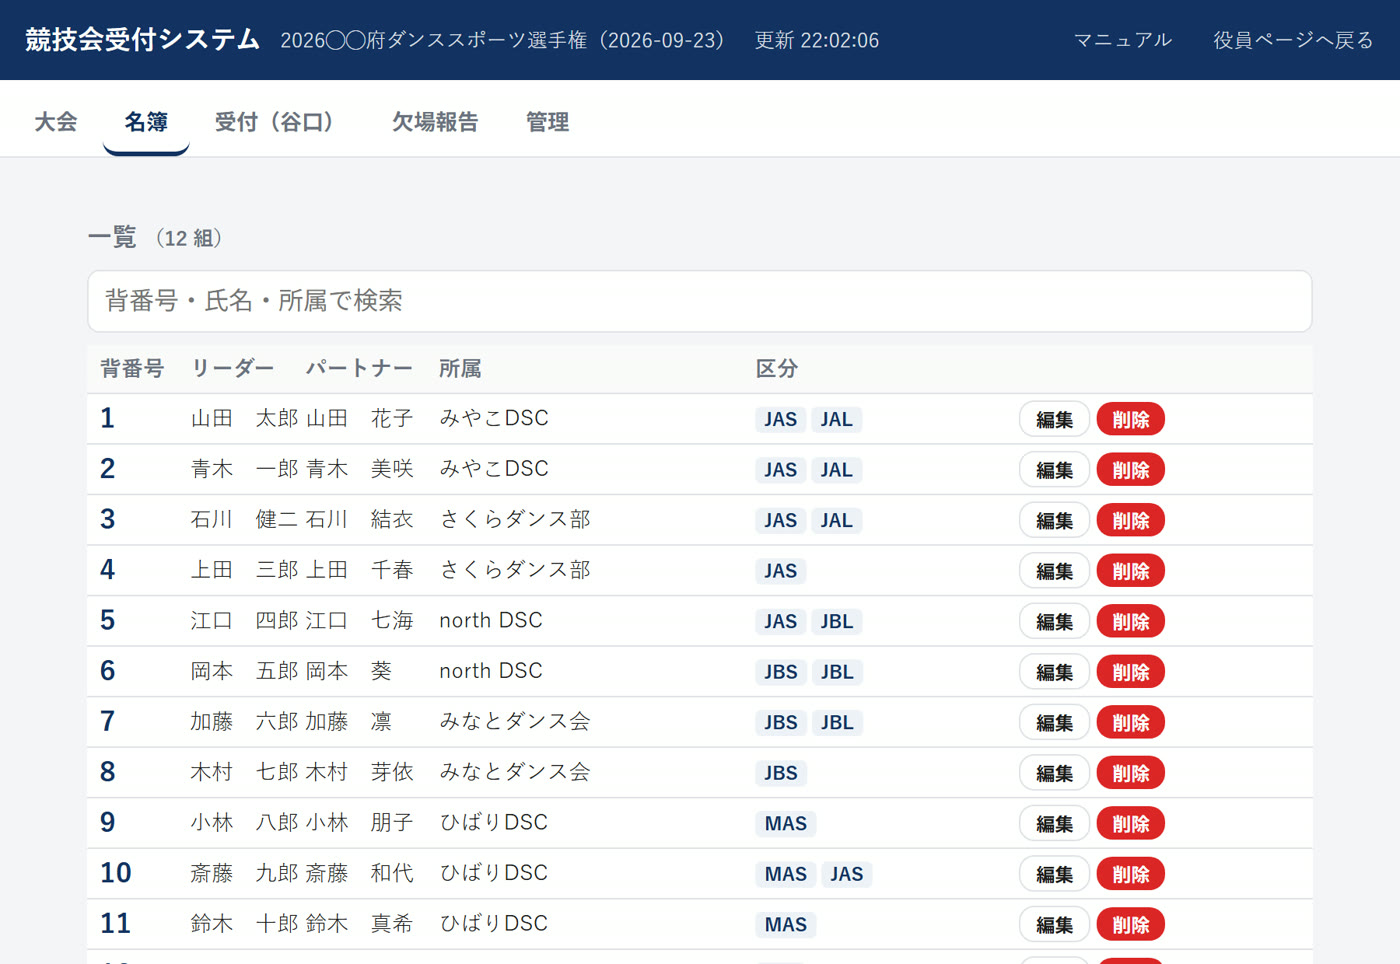
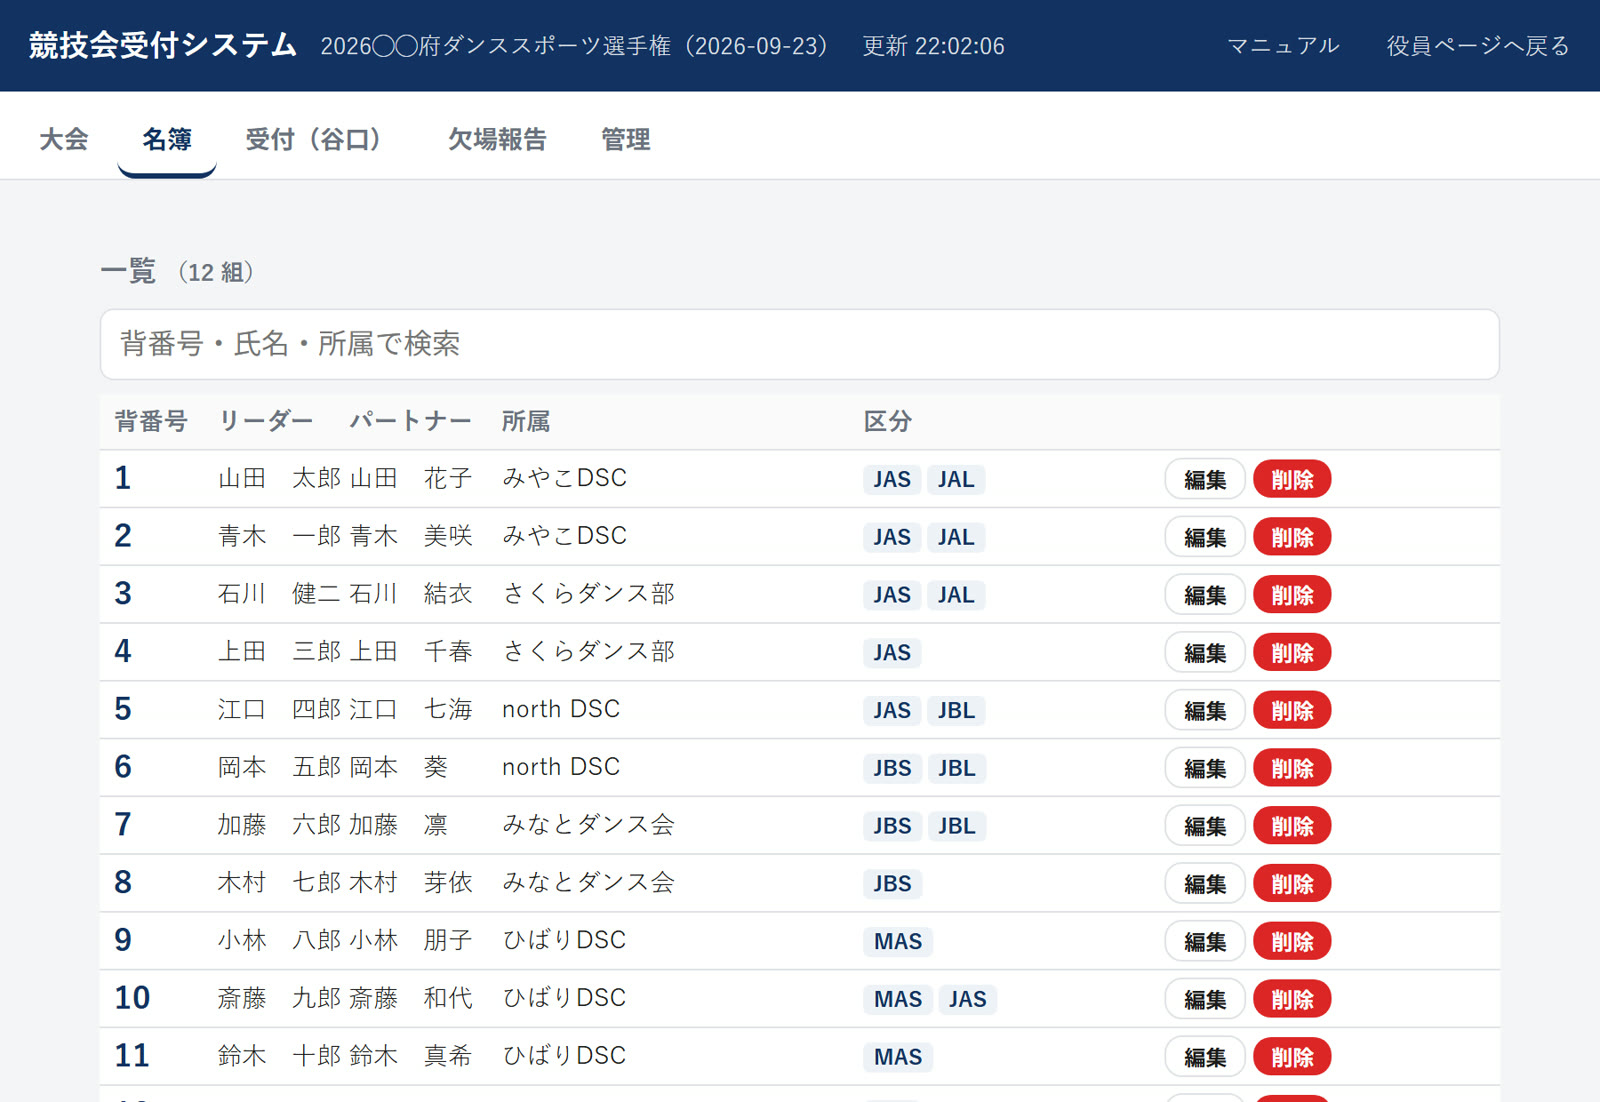
docs(uketsuke): マニュアルの画面写真を本文より広く出す
画面全体を撮ると、中の操作部分が小さくて読みにくかった。写真だけ本文の幅より
外へ広げ、画像も撮影時の解像度（1600幅）のまま載せるようにした。上のヘッダーと
タブ帯はそのままに、下の操作部分が実際の画面より大きく見える。

広い画面では 848px → 1248px（約1.5倍）。狭い画面では本文と同じ幅まで縮むので
横スクロールは出ない。印刷時は元の幅に戻し、写真は用紙いっぱいに出す。

diff --git a/uketsuke-manual.html b/uketsuke-manual.html
@@ -28,7 +28,10 @@
   li{margin:4px 0}
   .lead{font-size:15px;color:var(--muted)}
   .card{background:var(--card);border:1px solid var(--border);border-radius:12px;padding:16px 20px;margin:14px 0}
-  figure{margin:14px 0}
+  /* 画面写真は本文の幅より広く出す。ヘッダーとタブはそのままに、下の操作部分を大きく見せるため。 */
+  figure{margin:18px 0}
+  @media (min-width:1080px){ figure{margin-left:-90px;margin-right:-90px} }
+  @media (min-width:1320px){ figure{margin-left:-200px;margin-right:-200px} }
   figure img{width:100%;border:1px solid var(--border);border-radius:10px;display:block;background:#fff}
   figcaption{font-size:13px;color:var(--muted);margin-top:6px}
   .note{border-left:5px solid var(--primary);background:#eef2f8;padding:12px 16px;border-radius:0 8px 8px 0;
@@ -72,7 +75,8 @@
     h2{page-break-after:avoid;font-size:14pt;margin:18pt 0 6pt}
     h3{page-break-after:avoid;font-size:11.5pt}
     figure,table,.note,.warn,.ok,.card{page-break-inside:avoid}
-    figure img{border:1px solid #999;width:82%}
+    figure{margin-left:0 !important;margin-right:0 !important}
+    figure img{border:1px solid #999;width:100%}
     .video{display:none}
     section{page-break-before:always}
     section:first-of-type{page-break-before:auto}
